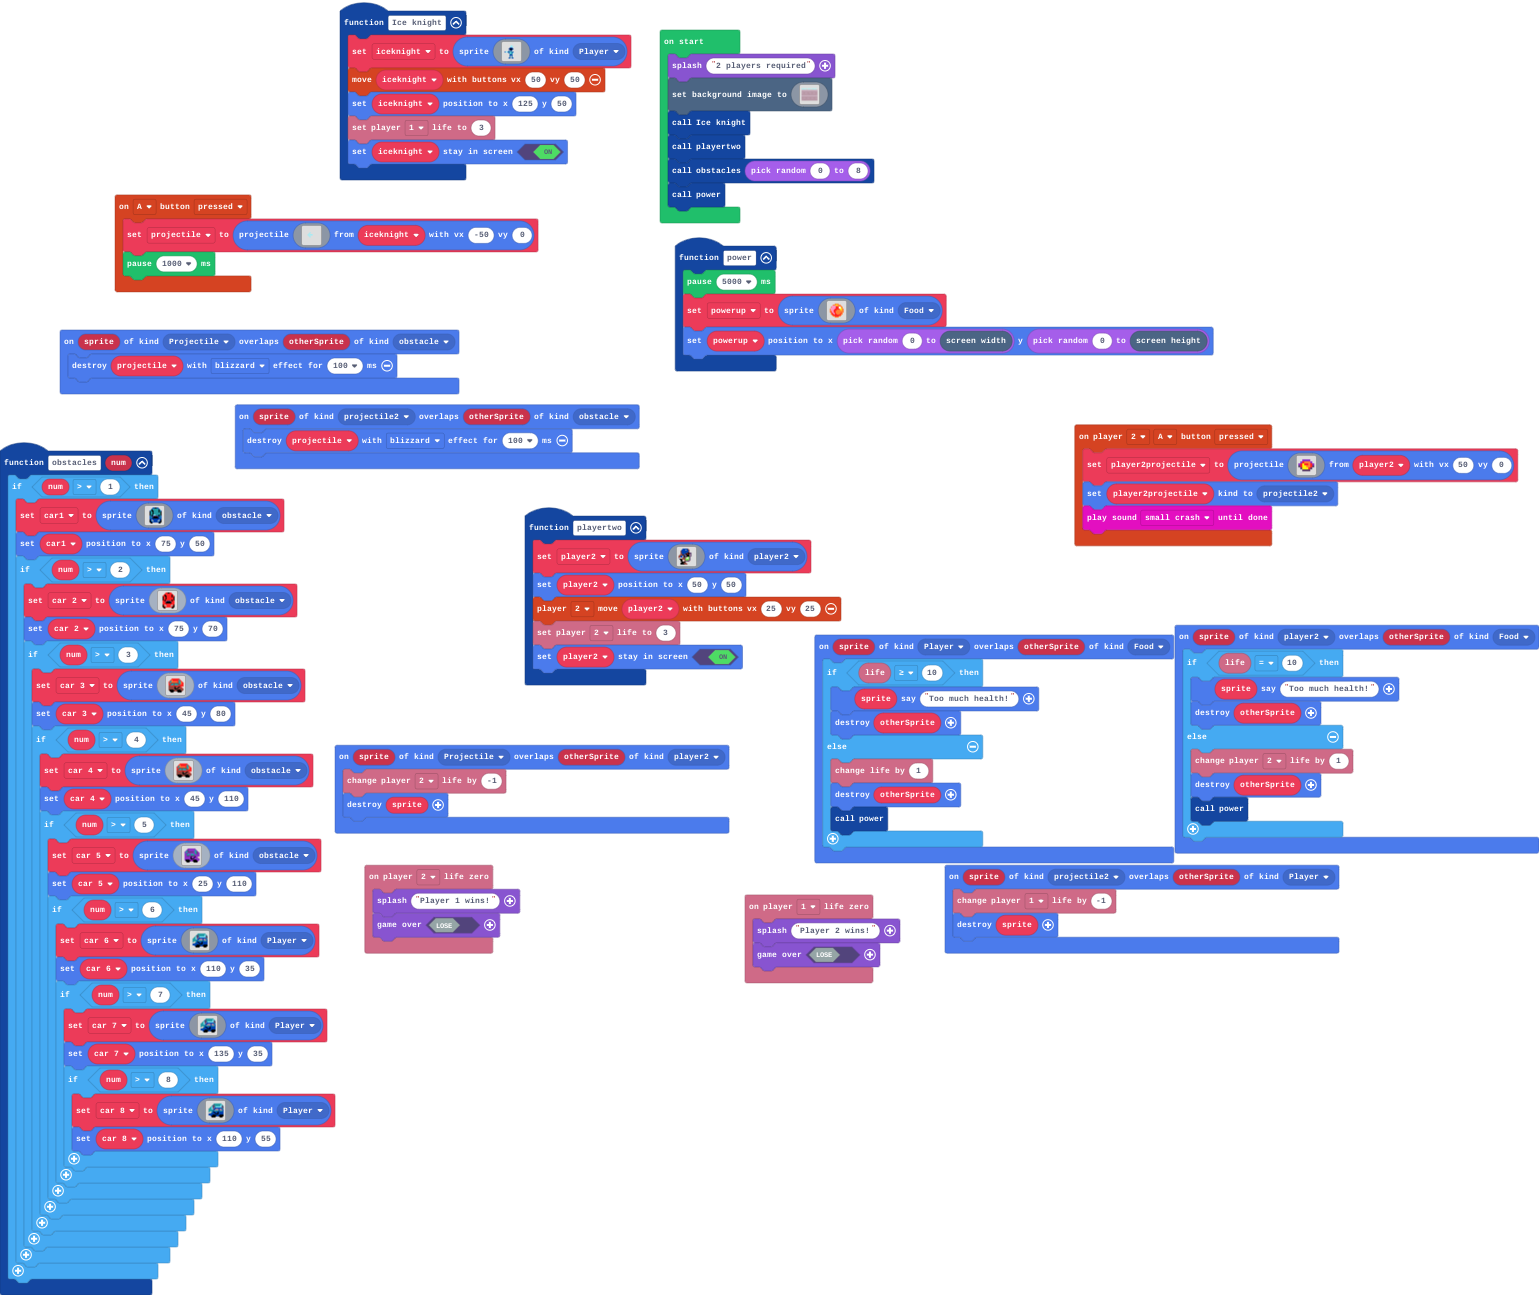
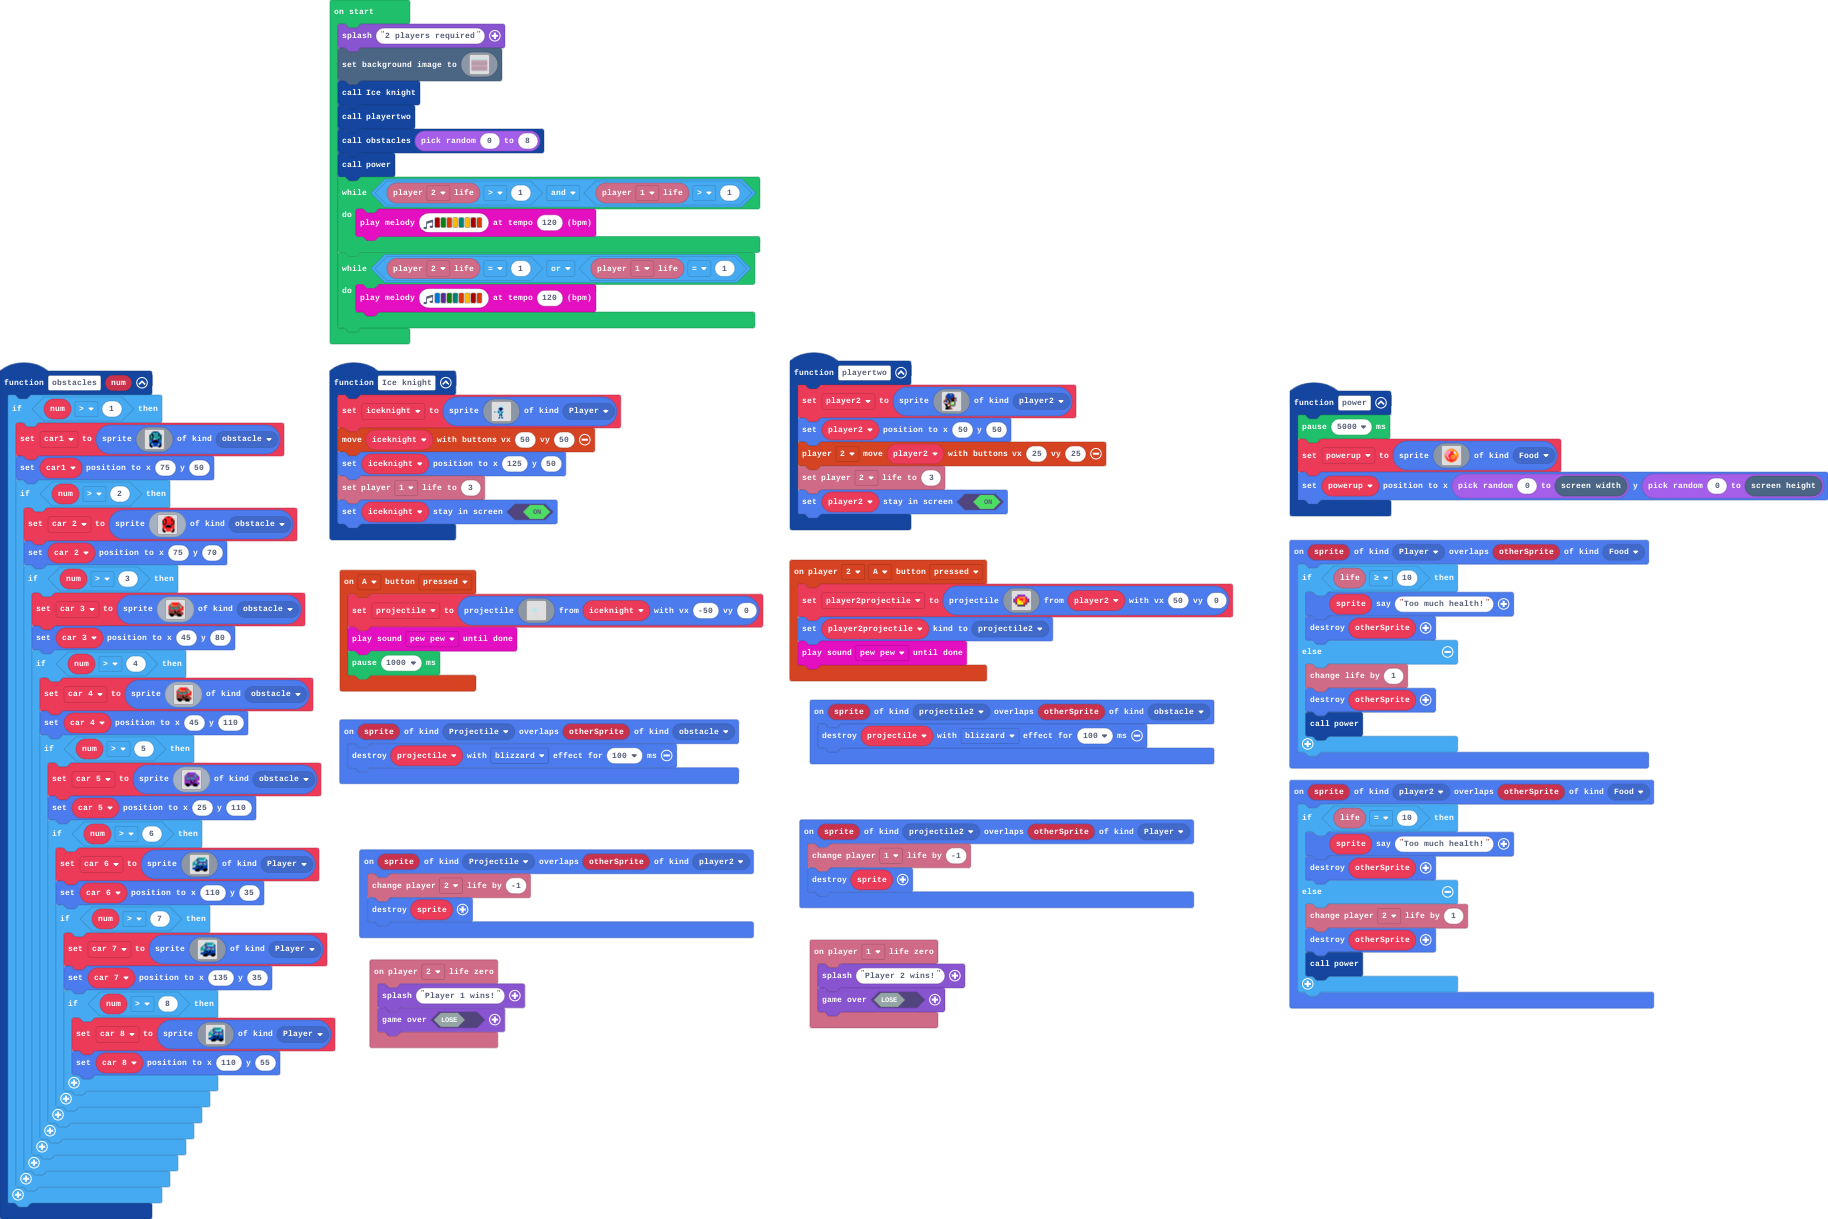
Update pxt.json, main.blocks, main.ts

diff --git a/main.ts b/main.ts
@@ -71,6 +71,7 @@ controller.A.onEvent(ControllerButtonEvent.Pressed, function () {
         . . . . . . . . . . . . . . . . 
         . . . . . . . . . . . . . . . . 
         `, iceknight, -50, 0)
+    music.pewPew.playUntilDone()
     pause(1000)
 })
 controller.player2.onButtonEvent(ControllerButton.A, ControllerButtonEvent.Pressed, function () {
@@ -83,7 +84,7 @@ controller.player2.onButtonEvent(ControllerButton.A, ControllerButtonEvent.Press
         . . c c c c . . 
         `, player2, 50, 0)
     player2projectile.setKind(SpriteKind.projectile2)
-    music.smallCrash.playUntilDone()
+    music.pewPew.playUntilDone()
 })
 sprites.onOverlap(SpriteKind.player2, SpriteKind.Food, function (sprite, otherSprite) {
     if (info.life() == 10) {
@@ -458,3 +459,9 @@ Ice_knight()
 playertwo()
 obstacles(randint(0, 8))
 power2()
+while (info.player2.life() > 1 && info.player1.life() > 1) {
+    music.playMelody("C5 G B A F A C5 B ", 120)
+}
+while (info.player2.life() == 1 || info.player1.life() == 1) {
+    music.playMelody("E D G F B A C5 B ", 120)
+}
